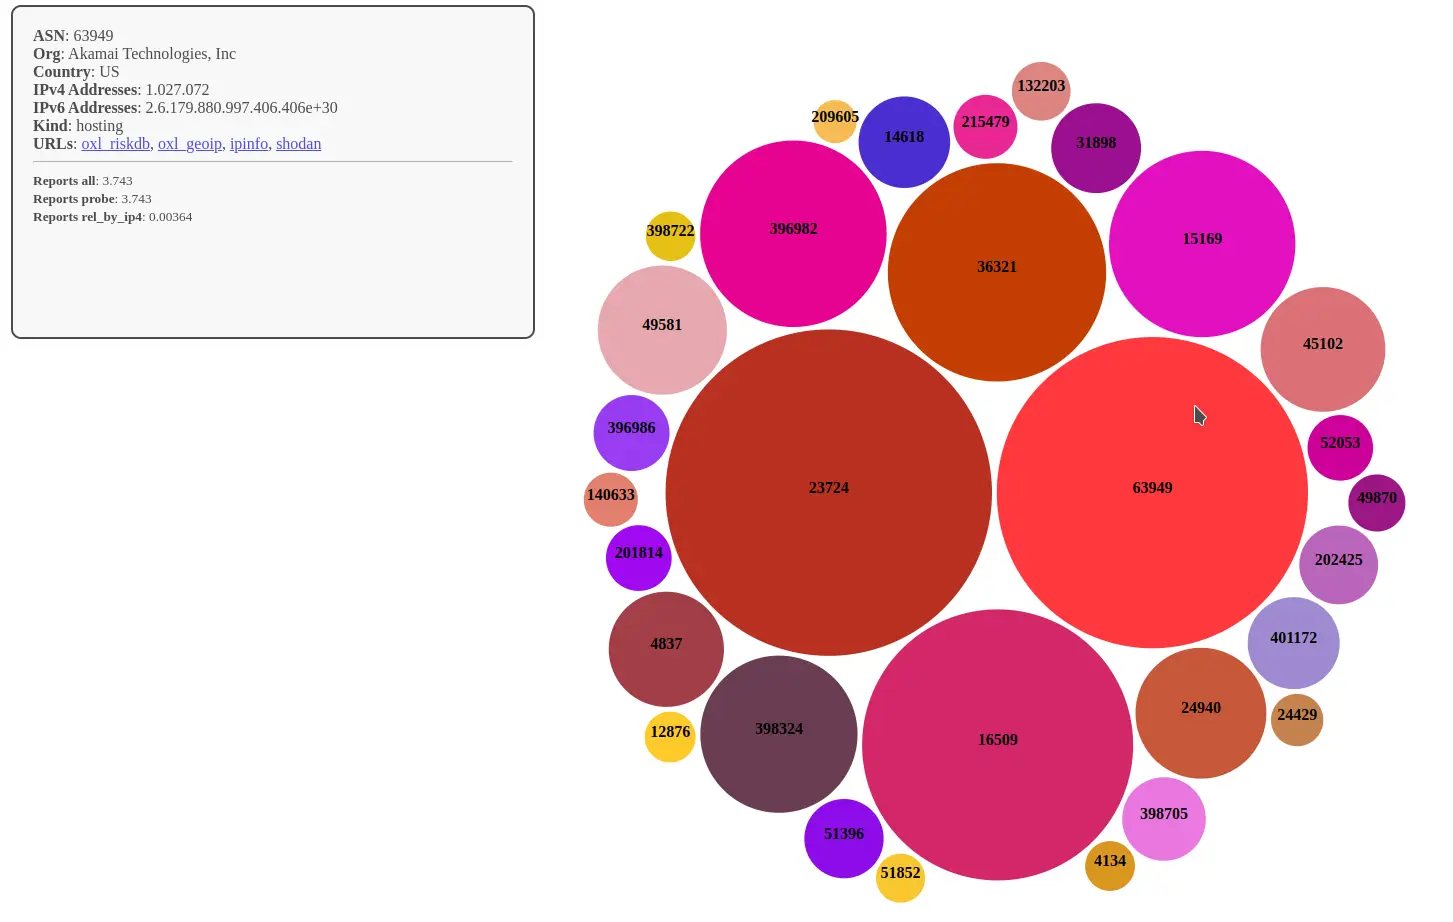
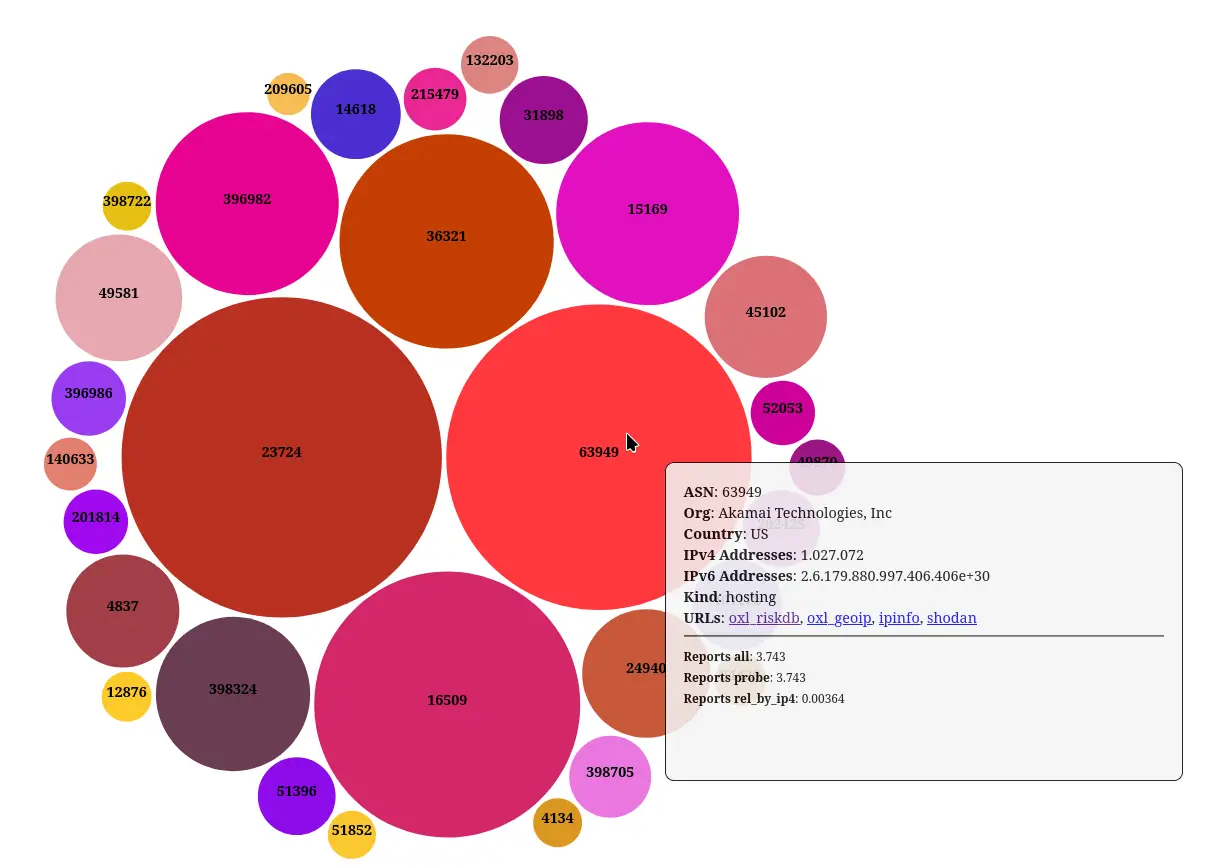
make asn-chart info-popup follow the cursor

diff --git a/visualization/asn_chart.html b/visualization/asn_chart.html
@@ -27,7 +27,7 @@
                 width: 25vw;
                 height: 30vh;
                 background-color: whitesmoke;
-                opacity: 0.7;
+                opacity: 0.85;
                 z-index: 2;
                 border-radius: 10px;
                 border-width: 2px;
@@ -76,7 +76,11 @@
 
             function showASNInfos(e) {
                 let infos = JSON.parse(e.currentTarget.querySelectorAll(".bubble-info")[0].textContent);
+
                 let infoContainer = document.getElementById('infos');
+                infoContainer.style.left = `${e.clientX}px`;
+                infoContainer.style.top = `${e.clientY}px`;
+
                 infoContainer.innerHTML = `<b>ASN</b>: ${infos.asn}<br>`;
                 infoContainer.innerHTML += `<b>Org</b>: ${infos.info.org.name}<br>`;
                 if (infos.info.org.country != '' && infos.info.org.country !== null) {

diff --git a/visualization/net_tree.html b/visualization/net_tree.html
@@ -78,13 +78,9 @@
             function showNetInfos(e) {
                 let infos = JSON.parse(e.currentTarget.querySelectorAll(".net-info")[0].textContent);
 
-                var x = event.clientX;
-                var y = event.clientY;
-                console.log(infos, x, y);
-
                 var infoContainer = document.getElementById('infos');
-                infoContainer.style.left = `${x}px`;
-                infoContainer.style.top = `${y}px`;
+                infoContainer.style.left = `${e.clientX}px`;
+                infoContainer.style.top = `${e.clientY}px`;
 
                 infoContainer.innerHTML = `<b>Network</b>: ${infos.name}<br>`;
                 infoContainer.innerHTML += `<b>Reported IPs</b>: ${infos.reported_ips}<br>`;
